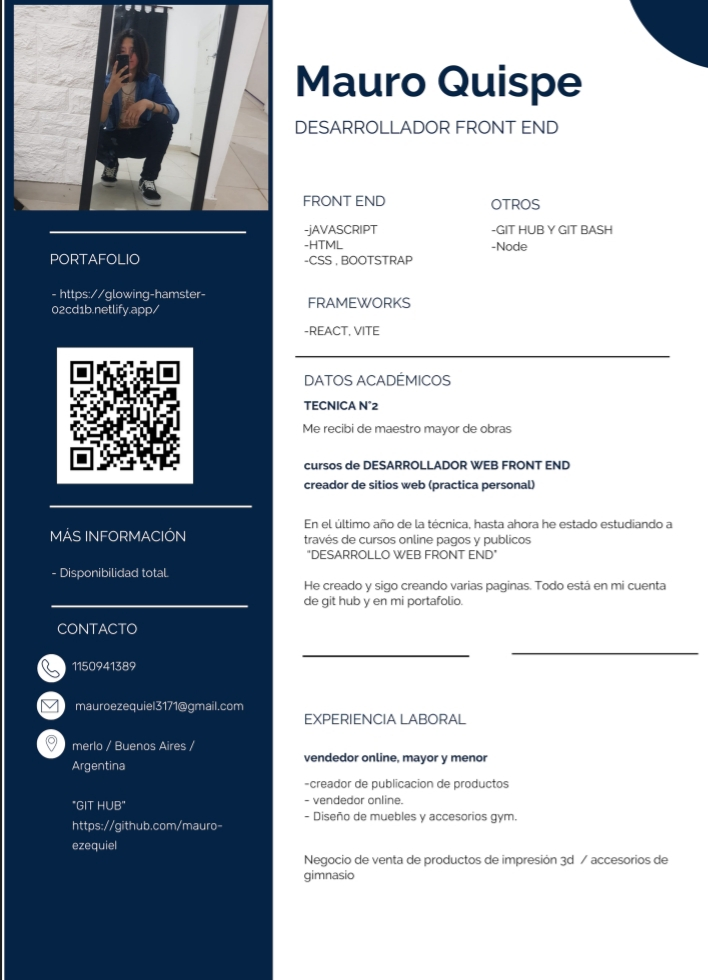
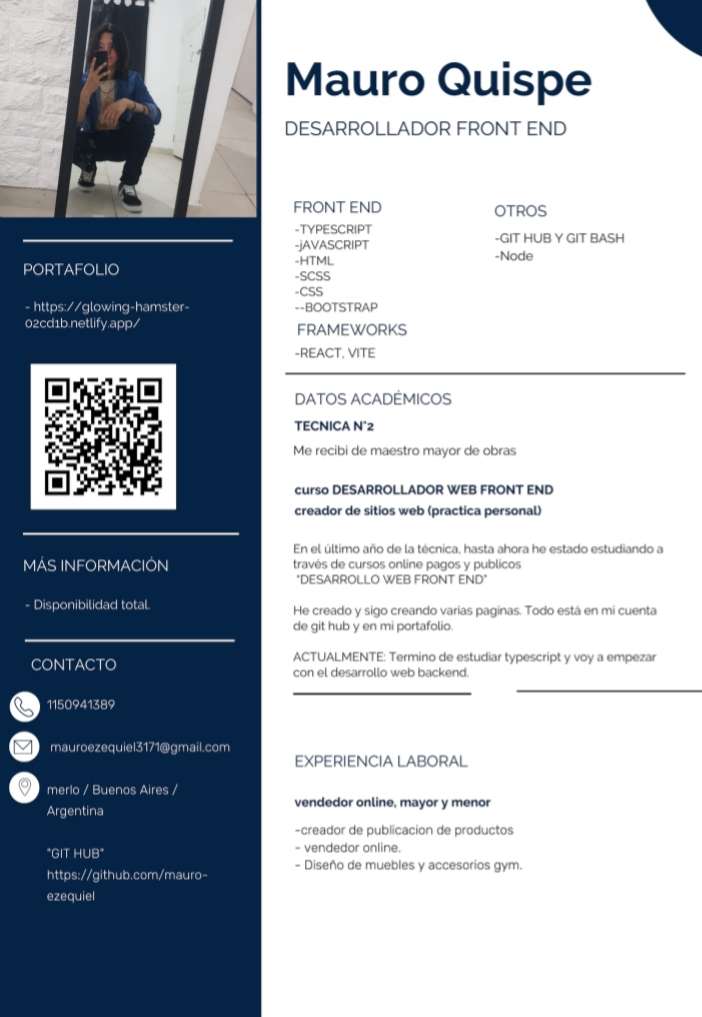
add new information to the page

diff --git a/src/components/contact.js b/src/components/contact.js
@@ -5,29 +5,31 @@ function Contact() {
   console.log(style);
   return (
     <section className="clear ">
-      <h1 className="title"> Contacto </h1>
-      <div className="row">
-        <div className="col-md-4">
-          <h2 className="paragraph">
-            Puedes contactarme en las siguientes redes:
-          </h2>
-        </div>
-        <div className="col-md-4">
-          <div className="link">
-            <a href="https://github.com/mauro-ezequiel" target="-blank">
-              <i class="bo bi-github"></i>
-            </a>
+      <div id="contact">
+        <h1 className="title"> Contacto </h1>
+        <div className="row">
+          <div className="col-md-6 p-0">
+            <h2 className="paragraph">
+              Puedes contactarme en las siguientes redes:
+            </h2>
+          </div>
+          <div className="col-md-6 p-0">
+            <div className="link">
+              <a href="https://github.com/mauro-ezequiel" target="-blank">
+                <i class="bo bi-github"></i>
+              </a>
 
-            <a href="https://wa.me/541150941389" target="-blank">
-              <i class="bo bi-whatsapp" />
-            </a>
+              <a href="https://wa.me/541150941389" target="-blank">
+                <i class="bo bi-whatsapp" />
+              </a>
 
-            <a
-              href="https://mail.google.com/mail/u/0/#search/from%3A%40jooble.org+in%3Aanywhere/FMfcgzGtwCtTwJMFtBCXBlHLrcdTZmpk"
-              target="-blank"
-            >
-              <i class="bo bi-envelope-at-fill"></i>
-            </a>
+              <a
+                href="https://mail.google.com/mail/u/0/#search/from%3A%40jooble.org+in%3Aanywhere/FMfcgzGtwCtTwJMFtBCXBlHLrcdTZmpk"
+                target="-blank"
+              >
+                <i class="bo bi-envelope-at-fill"></i>
+              </a>
+            </div>
           </div>
         </div>
       </div>

diff --git a/src/style/contact.modules.css b/src/style/contact.modules.css
@@ -1,24 +1,21 @@
 .link {
-  display: flex;
-  justify-content: center;
-  align-items: center;
   color: rgb(177, 183, 183);
-  margin: 1em 35em;
+  top: 0;
+  left: 0;
+  right: 0;
+  bottom: 0;
+  margin: auto;
+  width: 50%;
 }
 
 @media screen and (max-width: 820px) {
   .link {
-    top: 0;
-    left: 0;
-    right: 0;
-    bottom: 0;
-    margin: auto;
-    max-width: 80%;
+    width: 40%;
   }
   .paragraph {
     font-size: 0.6rem;
 
-    width: 60%;
+    margin-left: 20% !important;
   }
 }
 
@@ -32,14 +29,13 @@
   max-width: 100%;
   font-family: "Orbitron";
   margin: auto;
-  margin-right: 1px;
 }
 
 .paragraph {
   font-size: 1.3rem;
   color: rgb(82, 82, 83);
   font-weight: bold;
-  margin: 1em 100px;
+  margin: 1em 7em;
   width: 60%;
 }
 

diff --git a/src/components/list.js b/src/components/list.js
@@ -13,6 +13,12 @@ function List() {
         <h2 className="txt">REACT</h2>
       </div>
       <div className="icon">
+        <div id="bo">
+          <i class=" bi-filetype-tsx"></i>
+        </div>
+        <h2 className="txt">Typescript</h2>
+      </div>
+      <div className="icon">
         <div id="js">
           <ion-icon name="logo-javascript" />
         </div>
@@ -25,6 +31,14 @@ function List() {
 
         <h2 className="txt">HTML</h2>
       </div>
+
+      <div className="icon">
+        <div id="scss">
+          <i class="bi bi-filetype-scss"></i>
+        </div>
+        <h2 className="txt">SCSS</h2>
+      </div>
+
       <div className="icon">
         <div id="bo">
           <ion-icon name="logo-css3" />

diff --git a/src/style/list.modules.css b/src/style/list.modules.css
@@ -34,7 +34,7 @@
   display: flex;
   align-items: center;
   justify-content: center;
-  font-size: 3rem;
+  font-size: 2.5rem;
 }
 
 #boot {
@@ -68,22 +68,19 @@
   font-size: 3rem;
 }
 
+#scss {
+  color: #7d3266;
+  display: flex;
+  align-items: center;
+  justify-content: center;
+  font-size: 2.5rem;
+}
+
 @media screen and (max-width: 820px) {
-  #bo {
+  #bo #scss #n #js #html #boot {
     font-size: 1.5rem;
   }
-  #n {
-    font-size: 1.5rem;
-  }
-  #js {
-    font-size: 1.5rem;
-  }
-  #html {
-    font-size: 1.5rem;
-  }
-  #boot {
-    font-size: 1.5rem;
-  }
+
   .list {
     width: 90vw;
   }

diff --git a/src/App.css b/src/App.css
@@ -147,18 +147,21 @@ section {
   .container {
     margin-bottom: -7em;
   }
+  .cv {
+    width: 80vw !important;
+  }
 }
 
 /*curriculum*/
 
 .cv {
-  width: 70vw;
+  width: 50vw;
   margin: auto;
   top: 0;
   bottom: 0;
   left: 0;
   right: 0;
-  background-color: #ffffff;
+
   position: relative;
 }
 .tit {

diff --git a/src/App.js b/src/App.js
@@ -9,9 +9,8 @@ import bw from "./img/bw.png";
 export default function App() {
   return (
     <section className="dark">
-      <ParticlesApp />
       <Bar />
-
+      <ParticlesApp />
       <header className="container">
         <h1 className="title">
           Mauro Quispe
